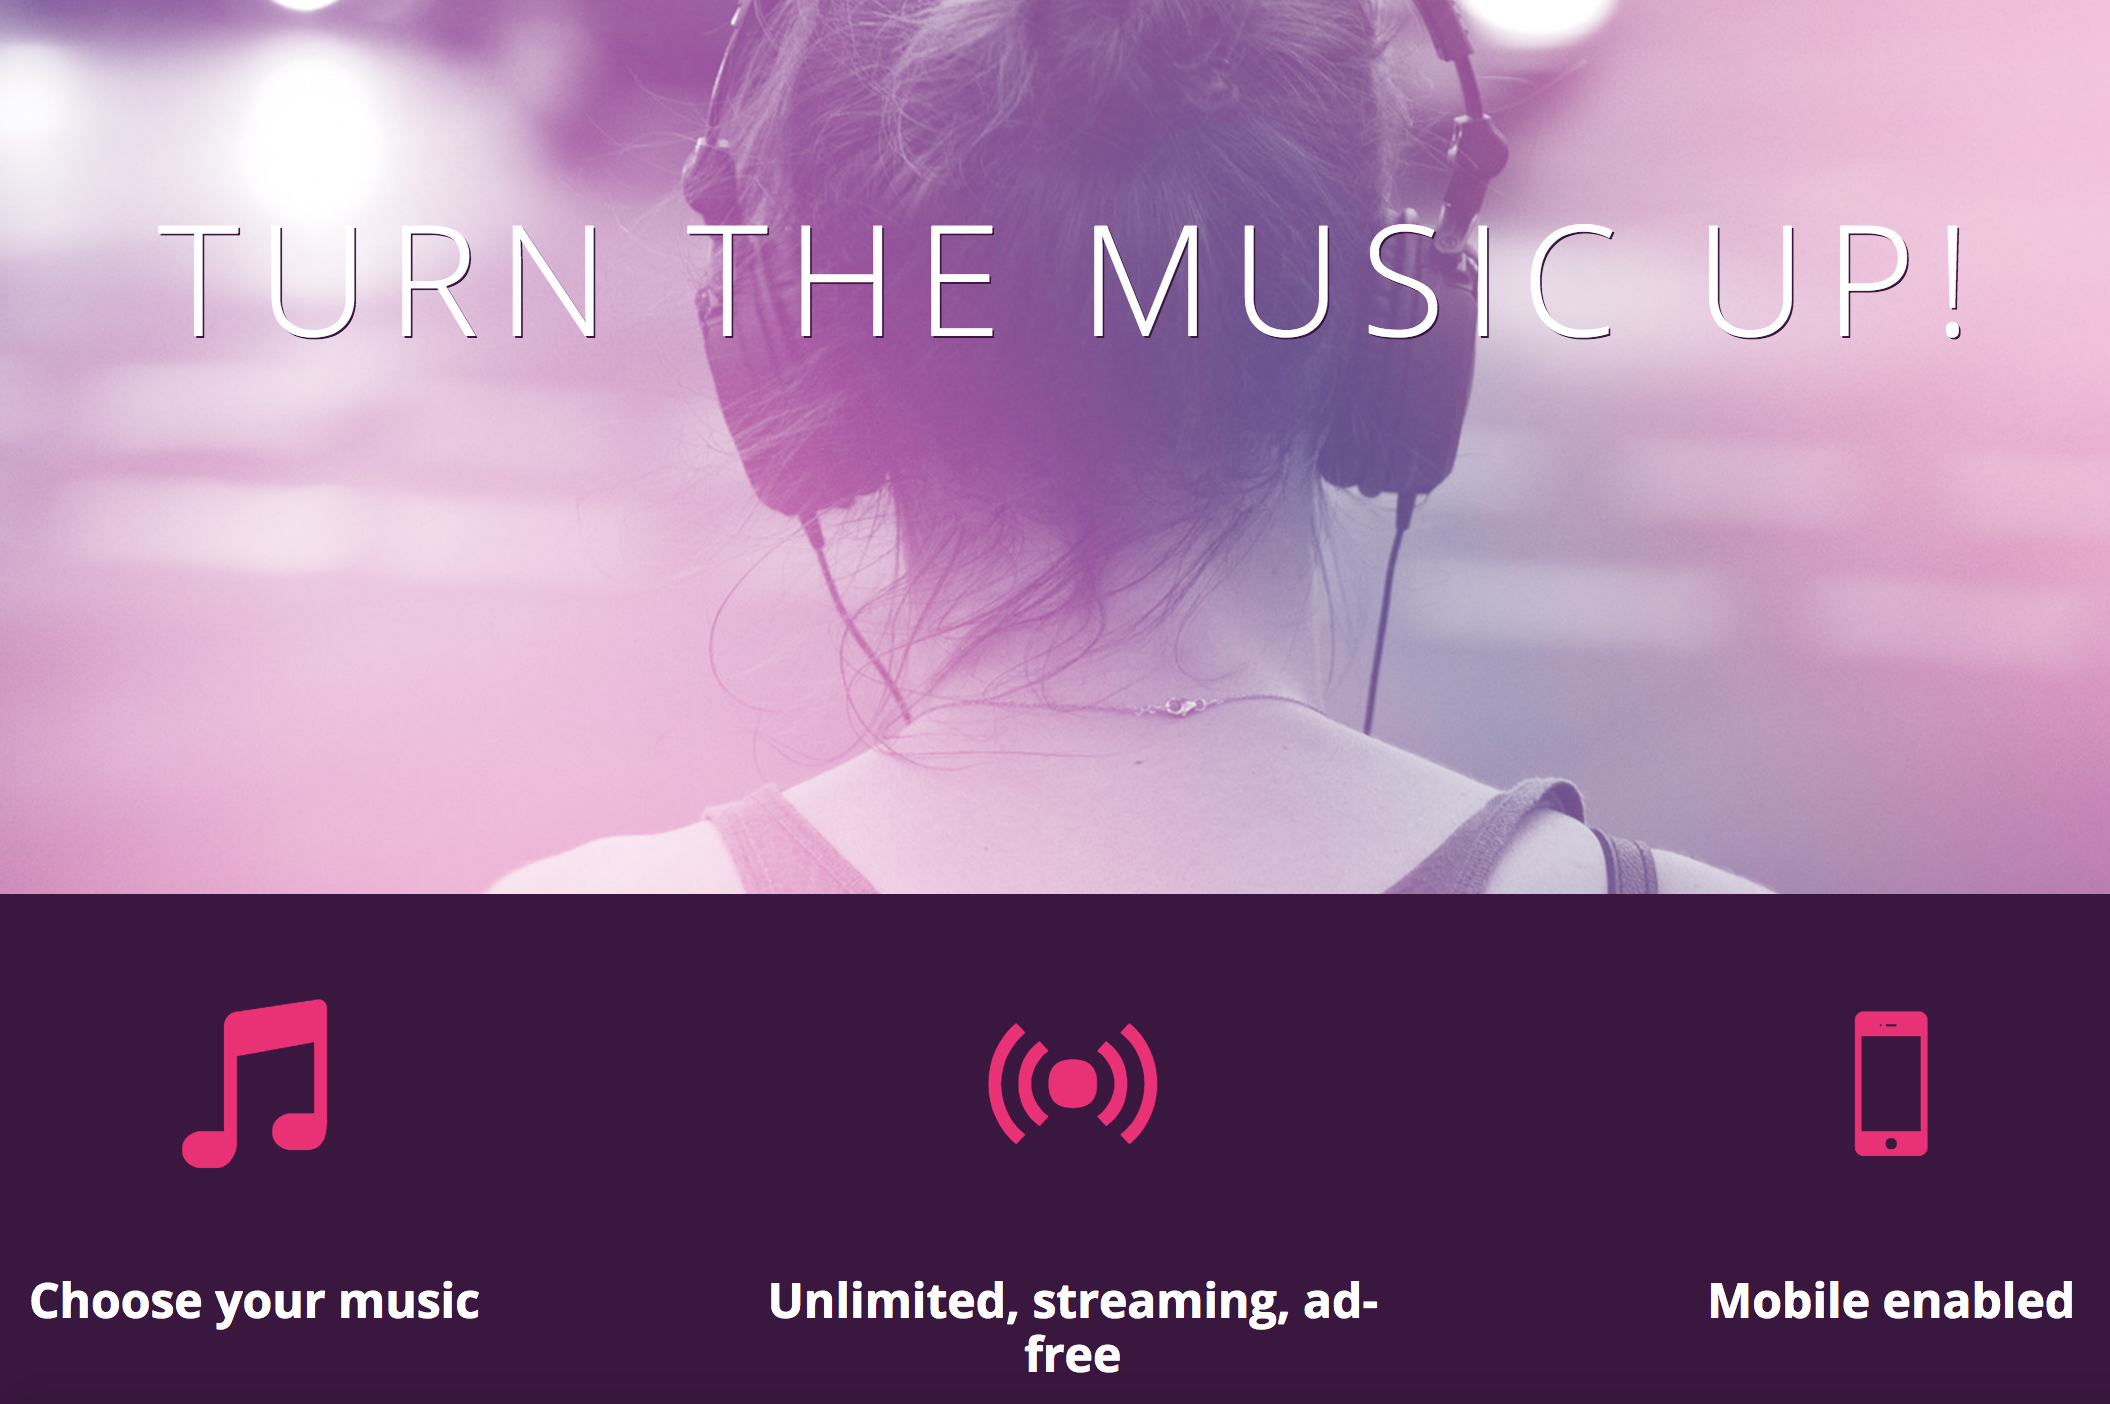
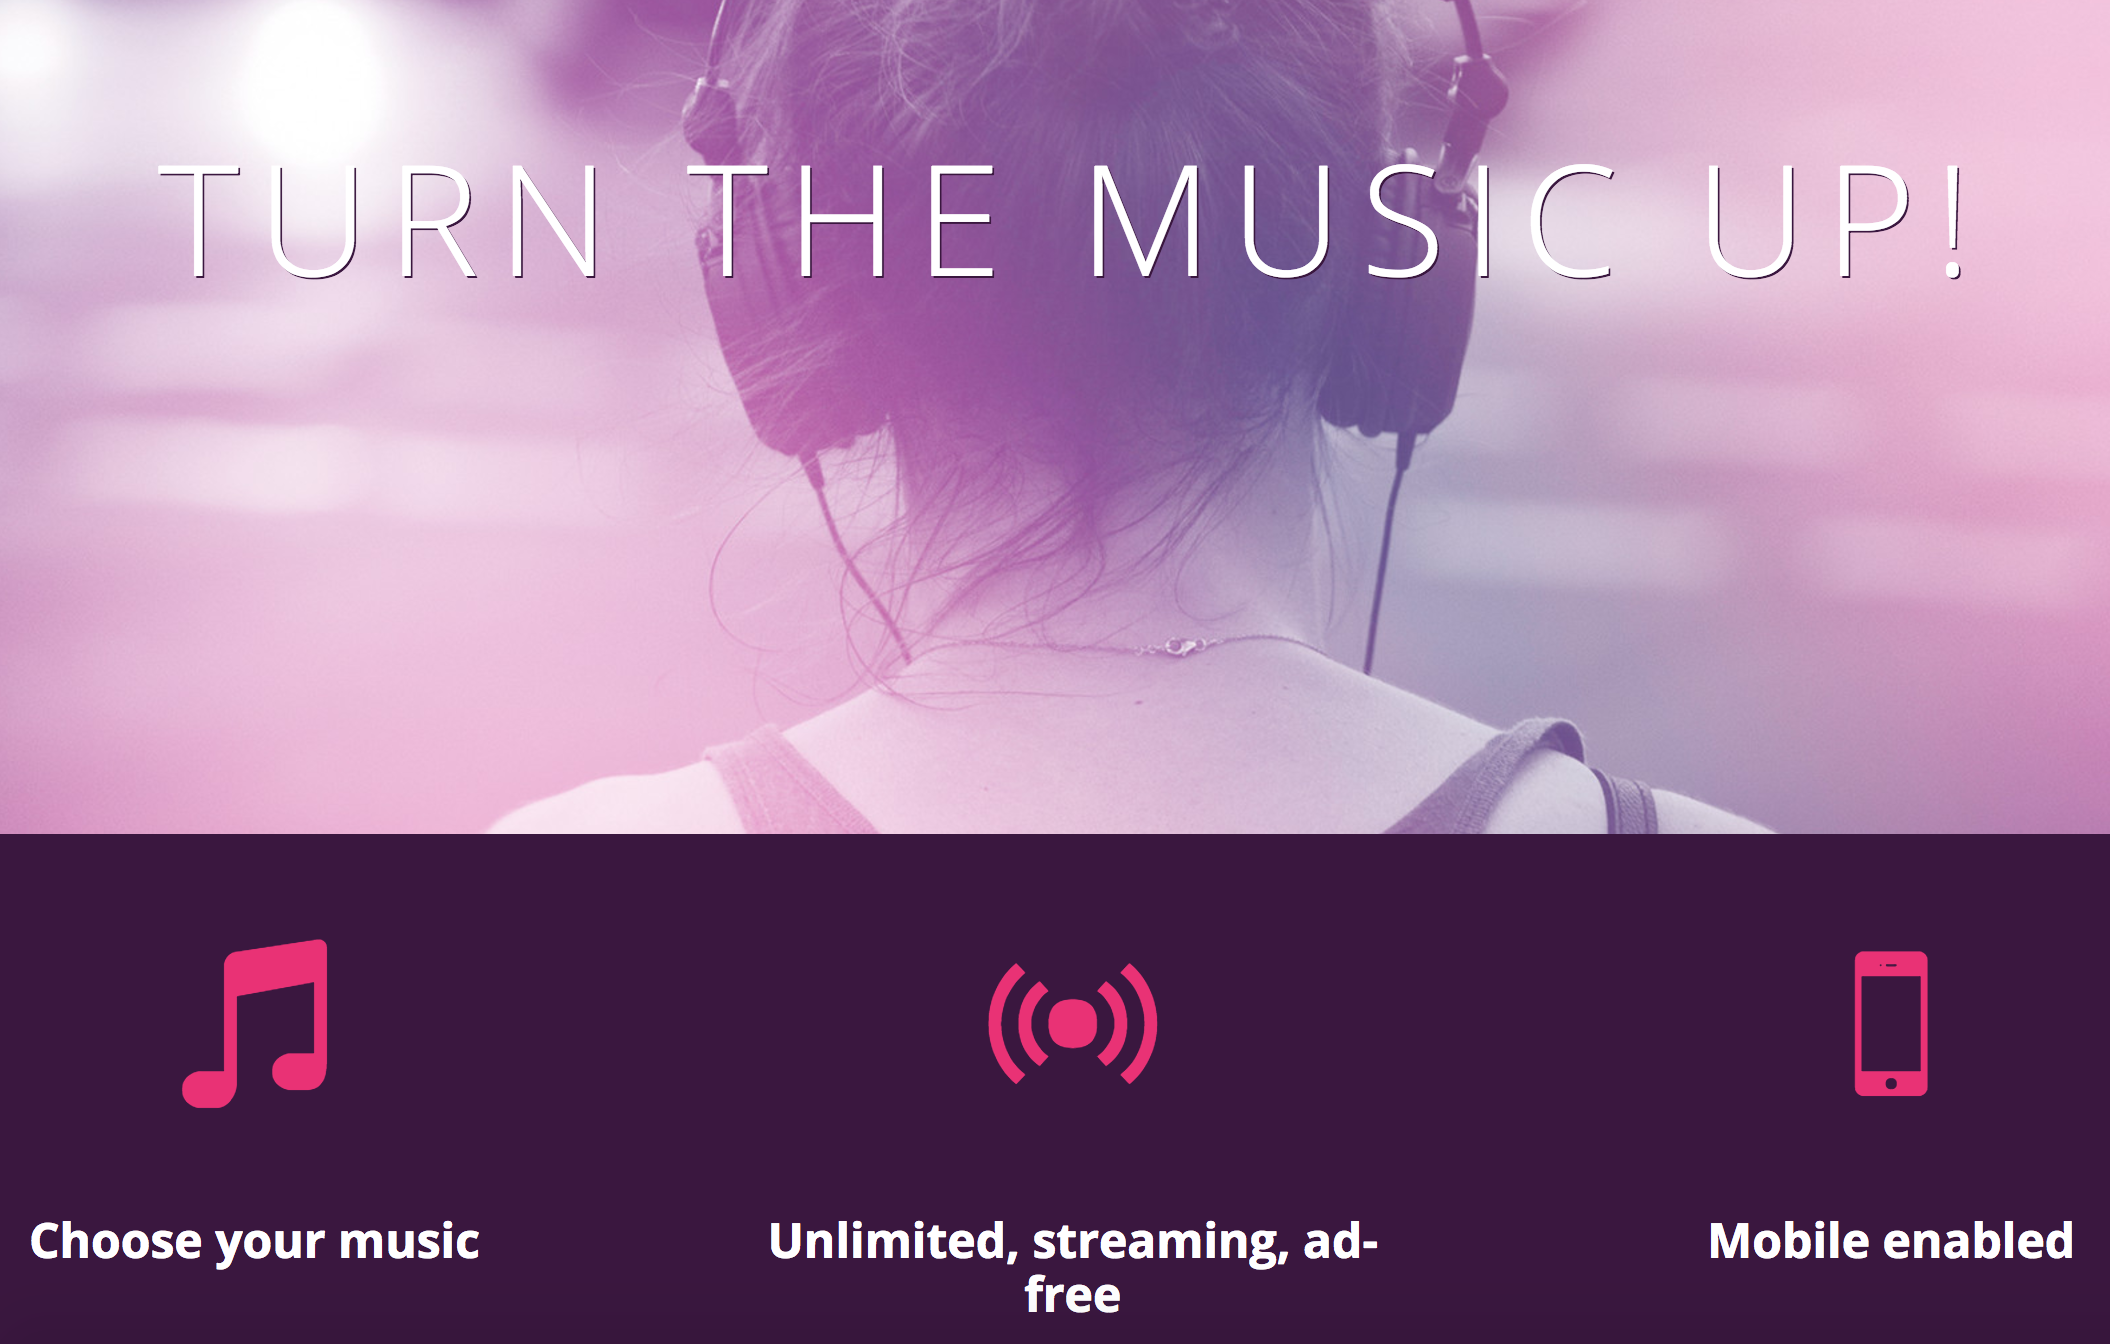
image changes

diff --git a/_portfolio/bloctalk.md b/_portfolio/bloctalk.md
@@ -2,7 +2,7 @@
 layout: post
 title: BlocJams - Angular
 feature-img: "img/blueheader.png"
-thumbnail-path: "img/BlocJamsIndexImage.png"
+thumbnail-path: "img/BlocJamsIndexImagecrop.png"
 short-description: BlocJams in Angular
 ---
 

diff --git a/_portfolio/blocjams.md b/_portfolio/blocjams.md
@@ -2,7 +2,7 @@
 layout: post
 title: BlocJams
 feature-img: "img/blueheader.png"
-thumbnail-path: "img/bracketslivepreviewthumb.png"
+thumbnail-path: "img/bracketslivepreviewcrop.png"
 short-description: BlocJams Music Player
 ---
 

diff --git a/_portfolio/blocchat.md b/_portfolio/blocchat.md
@@ -2,7 +2,7 @@
 layout: post
 title: ReactJams
 feature-img: "img/blueheader.png"
-thumbnail-path: "img/reactjamslandingthumb.png"
+thumbnail-path: "img/reactjamslandingcrop.png"
 short-description: React Music Player
 ---
 
